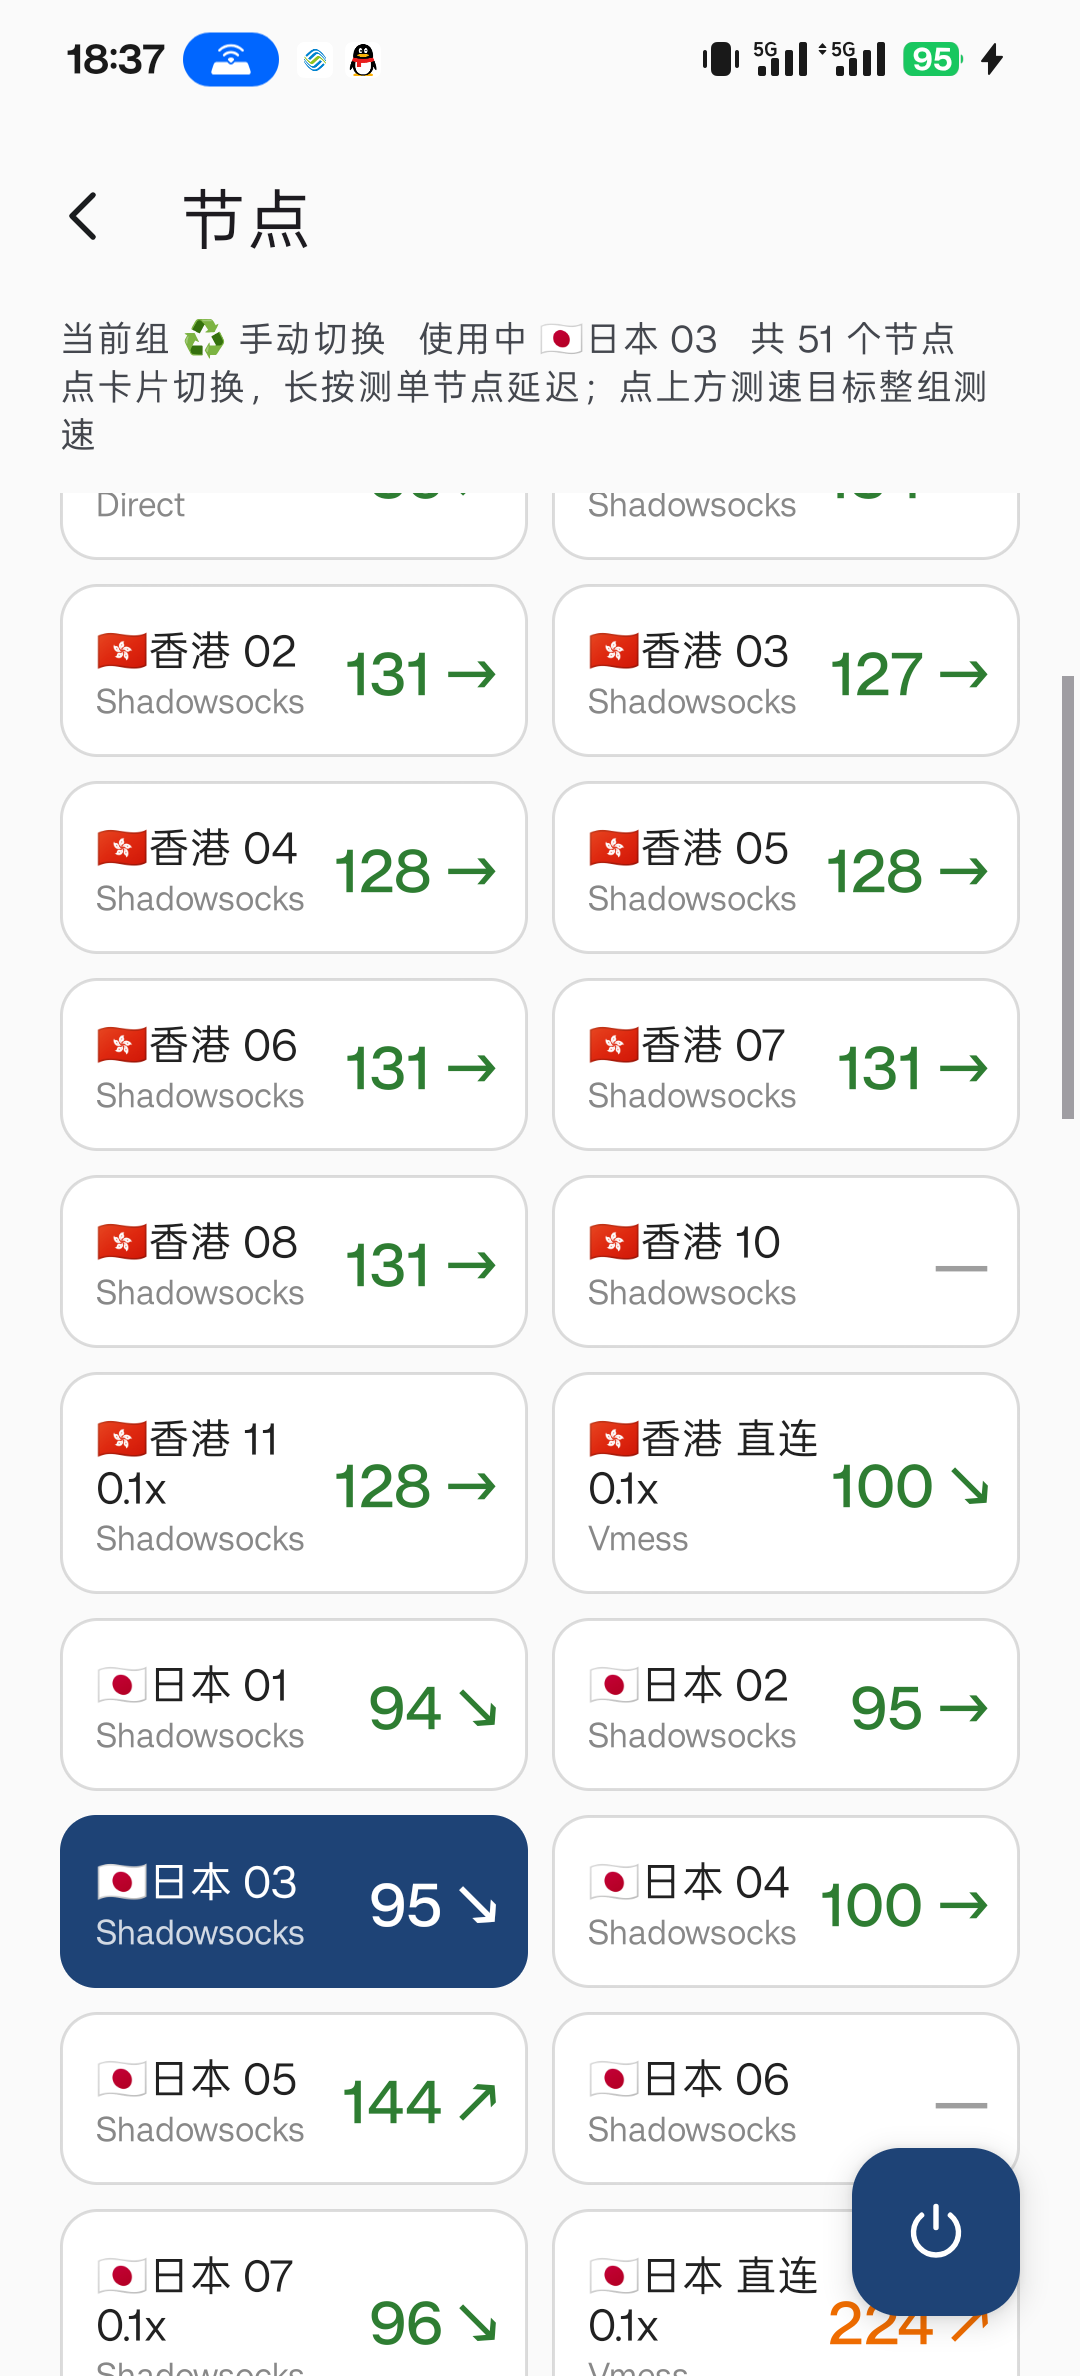
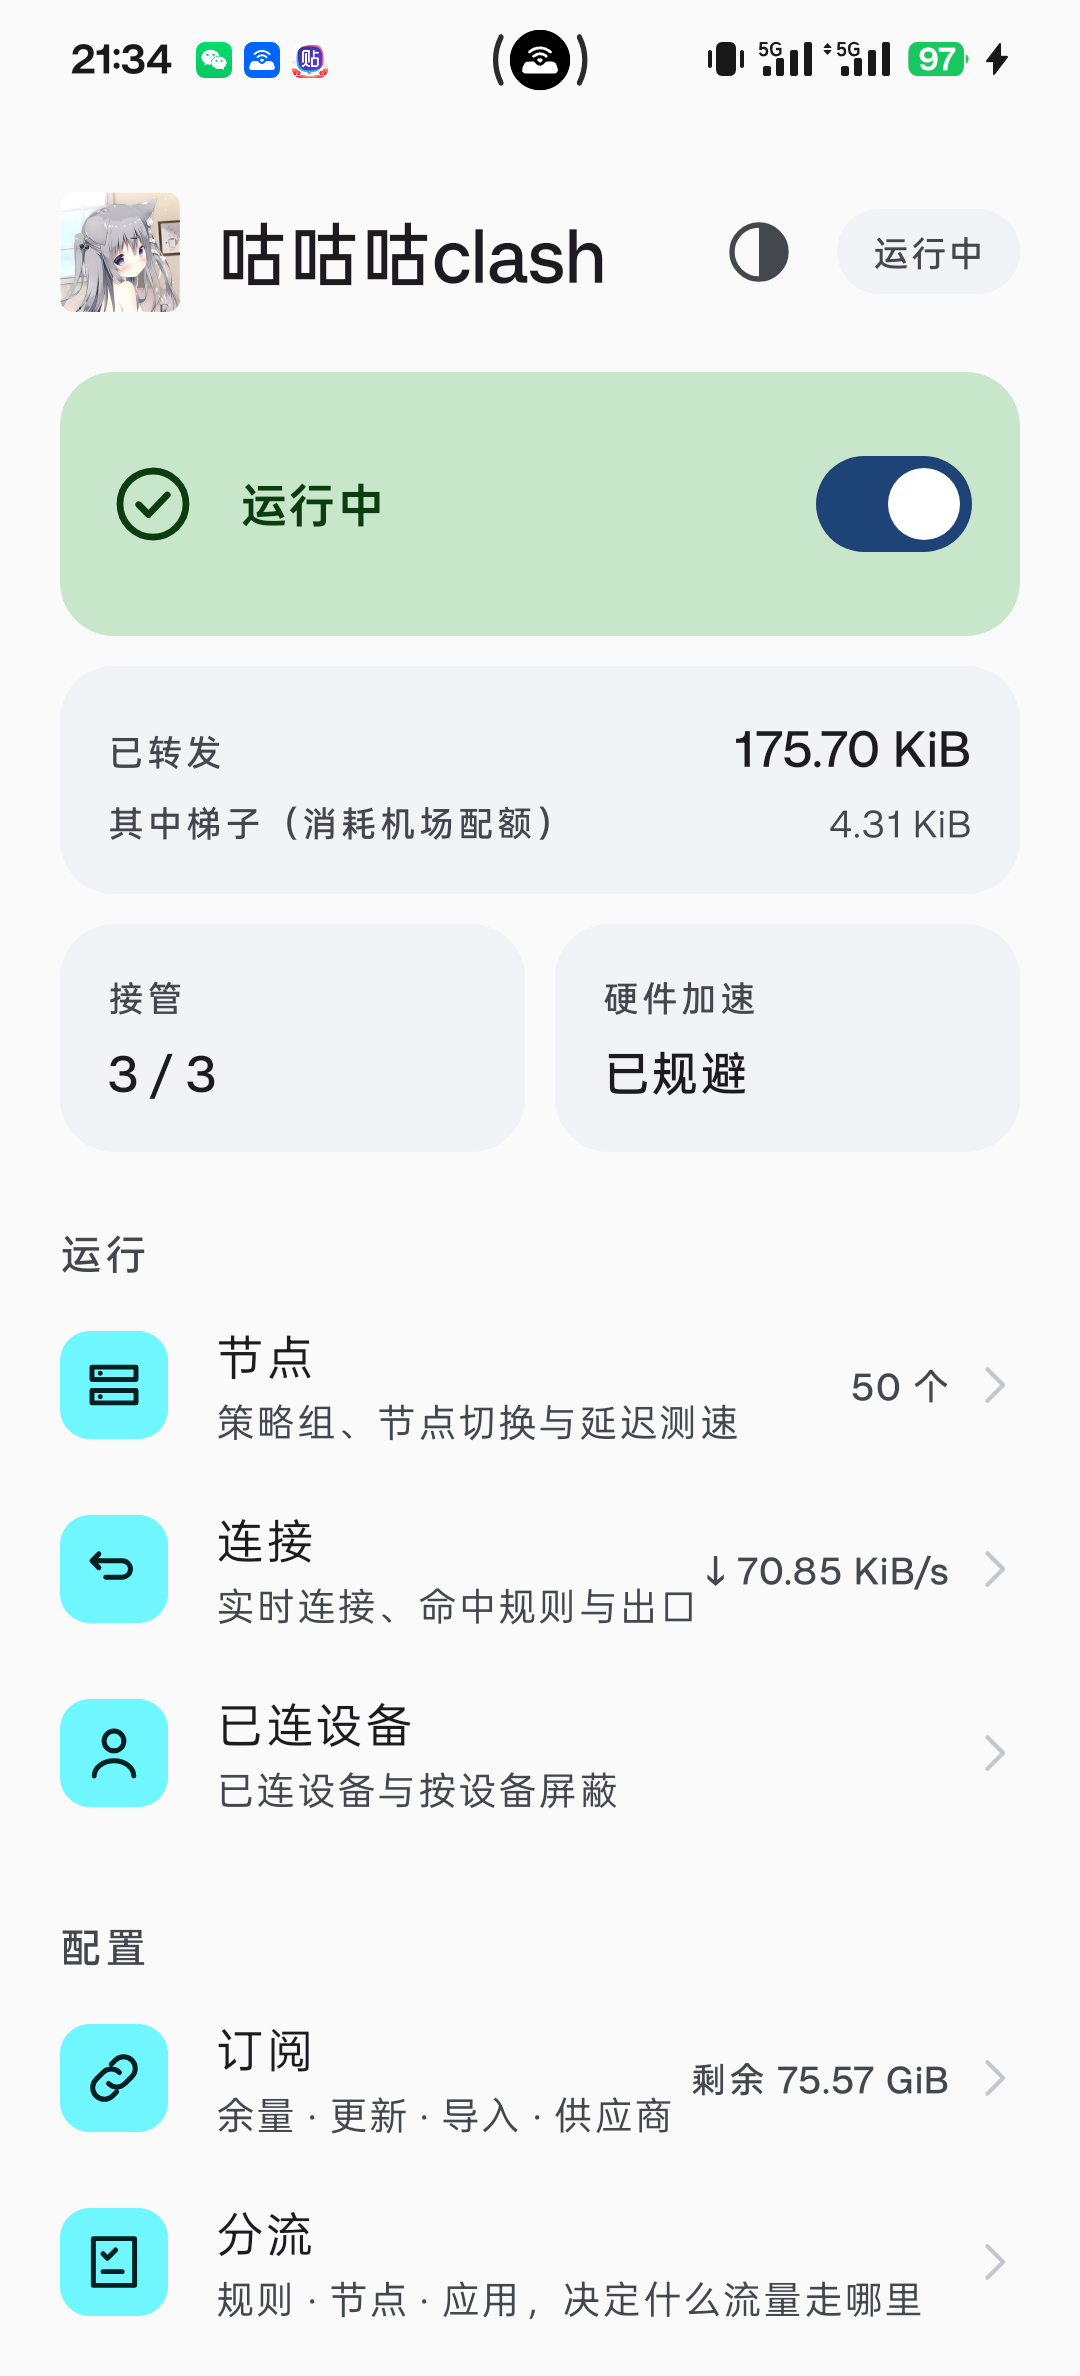
ui: 首页瘦身 —— 去掉排障信息，流量单独成块，两个指标改名
主开关卡片的副标题原来塞了四项（热点接口、内核版本、已转发、梯子），占两行。
其中只有后者是用户日常关心的：
  · 热点接口（wlan2）与内核版本（v1.19.32）属于排障信息，
    诊断 → 运行属性 里本来就完整列着，排障时一次复制即可；
  · 顺带瘦掉副标题也绕开了那个 546px 宽度限制带来的换行。

改动：
  · 副标题不再输出热点/内核/流量，正常运行时为空并自动隐藏（卡片只留标题与开关）
  · 已转发（含其中梯子）独立成一块 view_traffic_card，标签左、数值右，上下两行对齐
  · 接管规则 → 接管。它表示的是三个代理端口（TCP/UDP/DNS）是否都监听上，
    跟规则条数毫无关系，旧名字会让人误以为规则没配够
  · 共享硬件加速 → 硬件加速，取值由 已关闭/未关闭/无此开关
    改为 已规避/未规避/不支持 —— 旧措辞把语义说反了：
    已关闭 其实是好事（成功规避了会绕过 iptables 的硬件加速），用户却会读成功能没开

未运行时流量显示 —，避免让人把那两个数字当成本次的。

真机验证：副标题已无热点/内核；已转发与其中梯子各自成行；接管 3/3、硬件加速 已规避。
同步更新 README 首页截图。测试 161 个全部通过，编译 0 警告。

diff --git a/app/src/main/java/io/vpnshare/ui/MainActivity.kt b/app/src/main/java/io/vpnshare/ui/MainActivity.kt
@@ -44,6 +44,8 @@ class MainActivity : AppCompatActivity() {
     private lateinit var ivActionIcon: ImageView
     private lateinit var tvActionTitle: TextView
     private lateinit var tvActionSub: TextView
+    private lateinit var tvTrafficTotal: TextView
+    private lateinit var tvTrafficProxied: TextView
     private lateinit var tvPhase: TextView
 
     private val statViews = LinkedHashMap<String, View>()
@@ -109,6 +111,8 @@ class MainActivity : AppCompatActivity() {
         ivActionIcon = findViewById(R.id.ivActionIcon)
         tvActionTitle = findViewById(R.id.tvActionTitle)
         tvActionSub = findViewById(R.id.tvActionSub)
+        tvTrafficTotal = findViewById(R.id.tvTrafficTotal)
+        tvTrafficProxied = findViewById(R.id.tvTrafficProxied)
         tvPhase = findViewById(R.id.tvPhase)
 
         // 主题：单击循环三态。setDefaultNightMode 会让 Activity 自己重建，
@@ -379,7 +383,10 @@ class MainActivity : AppCompatActivity() {
                 }
             )
         )
-        tvActionSub.text = actionSubtitle(running)
+        val sub = actionSubtitle(running)
+        tvActionSub.text = sub
+        // 空串时收起，避免留下一条空白把卡片撑高
+        tvActionSub.visibility = if (sub.isBlank()) android.view.View.GONE else android.view.View.VISIBLE
 
         val sup = suppress
         suppress = true
@@ -394,6 +401,15 @@ class MainActivity : AppCompatActivity() {
             false -> getString(R.string.value_offload_off)
             null -> getString(R.string.value_offload_absent)
         })
+        // 流量方块。未运行时显示 —，避免让人以为那些数字是"这次"的
+        val fmt = { v: Long -> io.vpnshare.util.Format.bytes(v) }
+        if (running) {
+            tvTrafficTotal.text = fmt(ShareState.totalBytes)
+            tvTrafficProxied.text = fmt(ShareState.proxiedBytes)
+        } else {
+            tvTrafficTotal.text = "—"
+            tvTrafficProxied.text = "—"
+        }
 
         // 入口尾部文字。节点数走缓存 —— providerText 在档案加密时会跑 PBKDF2，
         // 每秒调一次等于每秒烧一次 CPU。
@@ -442,6 +458,14 @@ class MainActivity : AppCompatActivity() {
         else -> getString(R.string.action_state_busy)
     }
 
+    /**
+     * 主开关卡片下面那行小字。
+     *
+     * 刻意**不再**放「热点 wlan2」「内核 v1.19.32」和流量 ——
+     *  · 热点接口与内核版本属于排障信息，全都完整列在「诊断 → 运行属性」里；
+     *  · 流量单独给了方块（见 view_traffic_card）
+     * 正常运行时这里返回空串，由调用方隐藏，卡片只留标题和开关，干净。
+     */
     private fun actionSubtitle(running: Boolean): String {
         if (ShareState.phase == ShareState.Phase.ERROR && ShareState.detail.isNotBlank()) return ShareState.detail
         if (!running) {
@@ -449,18 +473,7 @@ class MainActivity : AppCompatActivity() {
             return if (missing.isNotEmpty()) "缺 " + missing.joinToString("、")
             else getString(R.string.action_sub_stopped)
         }
-        // 这一行的可用宽度只有约 546px（卡片文字列），本来就占两行；
-        // 加上「（梯子 …）」不改变行数，所以内核版本保留在这里。
-        val parts = mutableListOf<String>()
-        if (ShareState.iface.isNotBlank()) parts += "热点 " + ShareState.iface
-        if (ShareState.coreVersion.isNotBlank()) parts += "内核 " + ShareState.coreVersion
-        // 累计转发量（内核全局，含直连）+ 其中真正走节点、消耗机场配额的部分。
-        // 括号里那个数才是「梯子用了多少」，两者通常差得很远。
-        if (ShareState.hasTraffic) {
-            parts += "已转发 " + io.vpnshare.util.Format.bytes(ShareState.totalBytes) +
-                "（梯子 " + io.vpnshare.util.Format.bytes(ShareState.proxiedBytes) + "）"
-        }
-        return if (parts.isEmpty()) getString(R.string.action_state_running) else parts.joinToString("   ")
+        return ""
     }
 
     private fun setStat(key: String, label: String, value: String) {
